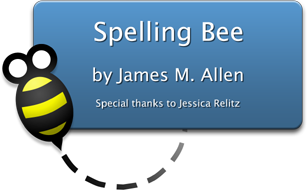
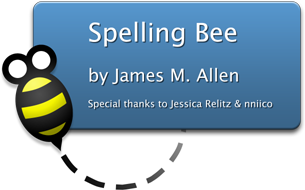
*** empty log message ***

diff --git a/spellingbee/trunk/Spelling Bee.js b/spellingbee/trunk/Spelling Bee.js
@@ -6,6 +6,7 @@
  * binary form. You can get the source code from http://aspell.net.
  * 
  * Jessica Relitz helped out with dialogue. ;-)
+ * nniico helped out with getting aspell compiled and compressed on the Mac.
  * 
  * All other images and code are copyright 2005-2006 James M. Allen, and may
  * not be used without permission.
@@ -20,6 +21,12 @@ function onLoad()
   // Build contextMenu
   contextMenu = new Array();
   var mi;
+  
+  mi = new MenuItem();
+  mi.title = "Dictionaries...";
+  mi.onSelect = "dictionaries_onSelect()";
+  contextMenu.push(mi);
+  
   mi = new MenuItem();
   mi.title = "Copy";
   mi.onSelect = "copy_onSelect()";
@@ -48,12 +55,26 @@ function onLoad()
   kmgInputBarBG = new KImage();
   kmgInputBarBG.window = wndMain;
   kmgInputBarBG.src = "Resources/InputBarBG<.png";
+  kmgInputBarBG.onDragDrop = "kmgInputBarBG_onDragDrop()";
+  kmgInputBarBG.onDragEnter = "kmgInputBarBG_onDragEnter()";
+  kmgInputBarBG.onDragExit = "kmgInputBarBG_onDragExit()";
   kmgInputBarBG.xHOffset = 51;
   kmgInputBarBG.xVOffset = 63;
   kmgInputBarBG.xWidth = 182;
   kmgInputBarBG.xHeight = 42;
   kmgInputBarBG.xScale = 1.0;
   widgetResize.items.push(kmgInputBarBG);
+  
+  kmgInputBarGlow = new KImage();
+  kmgInputBarGlow.window = wndMain;
+  kmgInputBarGlow.src = "Resources/InputBarGlow<.png";
+  kmgInputBarGlow.visible = false;
+  kmgInputBarGlow.xHOffset = 51;
+  kmgInputBarGlow.xVOffset = 59;
+  kmgInputBarGlow.xWidth = 182;
+  kmgInputBarGlow.xHeight = 44;
+  kmgInputBarGlow.xScale = 1.0;
+  widgetResize.items.push(kmgInputBarGlow);
   
   kmgInputBar = new KImage();
   kmgInputBar.window = wndMain;
@@ -120,6 +141,7 @@ function onLoad()
   // txtInput.onKeyDown = "txtInput_onKeyDown();";
   txtInput.onKeyPress = "txtInput_onKeyPress();";
   txtInput.onKeyUp = "txtInput_onKeyUp();";
+  txtInput.onMouseDown = "txtInput_onMouseDown();";
   txtInput.xHOffset = 82;
   txtInput.xVOffset = 73;
   txtInput.xWidth = 128;
@@ -144,7 +166,7 @@ function onLoad()
   imgBubbleAbove.xWidth = 182;
   imgBubbleAbove.xHeight = 87;
   imgBubbleAbove.visible = false;
-  imgBubbleAbove.onMouseUp = "hideBubble();";
+  imgBubbleAbove.onMouseDown = "hideBubble();";
   widgetResize.items.push(imgBubbleAbove);
   
   imgBubbleBelow = new Image();
@@ -155,7 +177,7 @@ function onLoad()
   imgBubbleBelow.xWidth = 182;
   imgBubbleBelow.xHeight = 87;
   imgBubbleBelow.visible = false;
-  imgBubbleBelow.onMouseUp = "hideBubble();";
+  imgBubbleBelow.onMouseDown = "hideBubble();";
   widgetResize.items.push(imgBubbleBelow);
   
   anmBubble = null;
@@ -246,7 +268,7 @@ function txtInput_onKeyUp()
     case "UpArrow":
     case "DownArrow":
       txtInput.rejectKeyPress();
-      textObjs_onMouseUp(-1, txtInput.hOffset, txtInput.vOffset + txtInput.height);
+      textObjs_onMouseDown(-1, txtInput.hOffset, txtInput.vOffset + txtInput.height);
       return;
       break;
     case "ForwardDelete":
@@ -263,13 +285,18 @@ function txtInput_onKeyUp()
   imgDot.colorize = imgDot.colorYellow;
 }
 
+function txtInput_onMouseDown()
+{
+  txtInput.focus();
+}
+
 
 function txtInput_resize()
 {
   txtInput.width = -1;
   updateNow();
   txtInput.width = Math.max(txtInput.xWidth * widgetResize.curScale, txtInput.width + txtInput.size * 2);
-  kmgInputBarBG.width = kmgInputBar.width = Math.max((kmgInputBar.xWidth - txtInput.xWidth) * widgetResize.curScale + txtInput.width);
+  kmgInputBarBG.width = kmgInputBarGlow.width = kmgInputBar.width = Math.max((kmgInputBar.xWidth - txtInput.xWidth) * widgetResize.curScale + txtInput.width);
   
   wndMain.width = Math.max(kmgInputBar.hOffset + kmgInputBar.width, frmBubble.hOffset + imgBubbleAbove.width);
   
@@ -281,6 +308,65 @@ function tmrResize_onTimerFired()
   txtInput_resize();
 }
 
+
+function kmgInputBarBG_onDragDrop()
+{
+  var successes = new Array();
+  var failures = new Array();
+  if (arrDroppedFiles.length > 0) {
+    for (var i in arrDroppedFiles) {
+      if (!buildDictionary(arrDroppedFiles[i])) {
+        failures.push(arrDroppedFiles[i]);
+      } else {
+        successes.push(arrDroppedFiles[i]);
+      }
+    }
+  }
+  
+  chooseLanguage();
+  
+}
+
+function chooseLanguage()
+{
+  // TODO: iterate over dictionaries (.multi files),
+  // present list of them
+  
+  var dictOptions = new Array();
+  var arrDicDir = filesystem.getDirectoryContents(system.widgetDataFolder + "/aspell/dict/");
+  
+  for (var i in arrDicDir) {
+    if (getExtension(arrDicDir[i]).toLowerCase() == "multi") {
+      dictOptions.push(getFilenameWithoutExtension(arrDicDir[i]));
+    }
+  }
+  
+  
+}
+
+
+function kmgInputBarBG_onDragEnter()
+{
+  arrDroppedFiles = new Array();
+  if (system.event.data[0] == "filenames") {
+    for (var i = 1; i < system.event.data.length; i++) {
+      var curFile = system.event.data[i];
+      if (/\/?aspell[^\/\\]*\.tar\.bz2$/i.test(curFile)) {
+        arrDroppedFiles.push(curFile)
+      }
+    }
+  }
+  
+  if (arrDroppedFiles.length > 0) {
+    kmgInputBarGlow.visible = true;
+  }
+  
+}
+
+function kmgInputBarBG_onDragExit()
+{
+  kmgInputBarGlow.visible = false;
+}
 
 function checkSpelling(inputStr)
 {
@@ -383,9 +469,11 @@ function buildDictionary(languageFile)
     log(cmdOutput);
   }
   
-  
+  return true;
   
 }
+
+
 
 function showBubble()
 {
@@ -418,7 +506,7 @@ function hideBubble()
 }
 
 
-function beeSays(str, autoLink, onMouseUp)
+function beeSays(str, autoLink, onMouseDown)
 {
   var startVOffset = 15;
   var wordsArray;
@@ -465,15 +553,15 @@ function beeSays(str, autoLink, onMouseUp)
           beeSays.textObjs[i].data = wordsArray[i];
           break;
       }
-      if (onMouseUp) {
+      if (onMouseDown) {
         beeSays.textObjs[i].bgOpacity = 1;
-        beeSays.textObjs[i].onMouseUp = onMouseUp;
+        beeSays.textObjs[i].onMouseDown = onMouseDown;
       } else if (autoLink) {
         beeSays.textObjs[i].bgOpacity = 1;
-        beeSays.textObjs[i].onMouseUp = "textObjs_onMouseUp(" + i + ");";
+        beeSays.textObjs[i].onMouseDown = "textObjs_onMouseDown(" + i + ");";
       } else {
         beeSays.textObjs[i].bgOpacity = 0;
-        beeSays.textObjs[i].onMouseUp = null;
+        beeSays.textObjs[i].onMouseDown = null;
         beeSays.textObjs[i].tooltip = "";
       }
       objectResize(beeSays.textObjs[i]);
@@ -507,7 +595,7 @@ function beeSays(str, autoLink, onMouseUp)
         if (curLineNumber >= lineVOffsets.length) {
           beeSays.textObjs[i - 1].data = ". . . ";
           if (autoLink) {
-            beeSays.textObjs[i - 1].onMouseUp = "textObjs_onMouseUp(-1);";
+            beeSays.textObjs[i - 1].onMouseDown = "textObjs_onMouseDown(-1);";
           } else {
             beeSays.textObjs[i - 1].tooltip = str;
           }
@@ -538,7 +626,7 @@ beeSays.textObjs = new Array();
 beeSays.words = new Array();
 
 
-function textObjs_onMouseUp(idx, popupx, popupy)
+function textObjs_onMouseDown(idx, popupx, popupy)
 {
   if (idx < 0) {
     var arrMenu = new Array();
@@ -553,7 +641,7 @@ function textObjs_onMouseUp(idx, popupx, popupy)
       }
       mi = new MenuItem();
       mi.title = word;
-      mi.onSelect = "textObjs_onMouseUp(" + i + ");";
+      mi.onSelect = "textObjs_onMouseDown(" + i + ");";
       arrMenu.push(mi);
     }
     
@@ -877,6 +965,12 @@ function onRunCommandInBgComplete()
   
 }
 
+function dictionaries_onSelect()
+{
+  
+}
+
+
 function copy_onSelect()
 {
   system.clipboard = txtInput.data;
@@ -888,6 +982,7 @@ function paste_onSelect()
   txtInput.data = system.clipboard;
   hideBubble();
   checkSpelling(txtInput.data);
+  txtInput.focus();
 }
 
 
